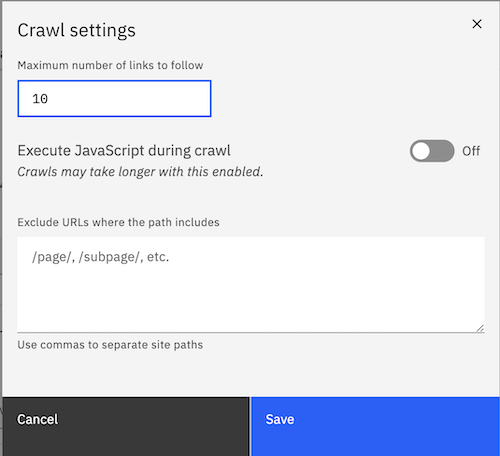
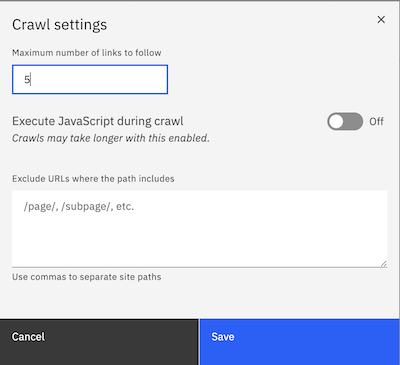
changing link count to 5

diff --git a/tutorial-assistant-fred.md b/tutorial-assistant-fred.md
@@ -237,11 +237,11 @@ We want the virtual assistant to be able to answer questions about the entity ex
 1.  Click the Edit icon for the URL that you just added.
 
     ![Shows the Starting URLs field](images/tut-convo-web-crawl-3.png)
-1.  In the **Maximum number of links to follow** field, change the value to 10.
+1.  In the **Maximum number of links to follow** field, change the value to 5.
 
     ![Shows the Starting URLs field](images/tut-convo-web-crawl-4.png)
 
-    By changing the value to 10, you indicate that you want the service to process the page that you specified plus you want it to follow up to 10 links from the starting page.
+    By changing the value to 5, you indicate that you want the service to process the page that you specified plus you want it to follow up to 5 links from the starting page.
 
 1.  Click **Save**, and then click **Finish**.
 
@@ -306,7 +306,7 @@ To preview an assistant that connects to data that is stored in {{site.data.keyw
 
 1.  From the Environments page, click **Preview this environment**.
 
-    ![Shows a preview of a web page with a chat icon](images/tut-convo-test-0.png)
+    ![Shows a preview of a web page with a chat icon](images/tut-convo-test-0a.png)
 
     A sample web page is displayed that includes a chat icon.
 
@@ -319,7 +319,7 @@ To preview an assistant that connects to data that is stored in {{site.data.keyw
 1.  Enter the following text question:
 
     ```
-    What impact is inflation having on the real estate market?Can you export an entity extractor model?
+    What impact is inflation having on the real estate market?
     ```
     {: codeblock}
 
@@ -328,7 +328,7 @@ To preview an assistant that connects to data that is stored in {{site.data.keyw
 
     The correct answer is returned and it includes a link to the source documentation page.
 
-    ![Shows a preview of the assistant where the test question is answered](images/tut-convo-test-3.png)
+    ![Shows a preview of the assistant where the test question is answered](images/tut-convo-test-3a.png)
 
 Congratulations! You successfully created an assistant that can answer questions about economic topics by retrieving information from working papers that are available from the US Federal Research Economic Data website.
 
